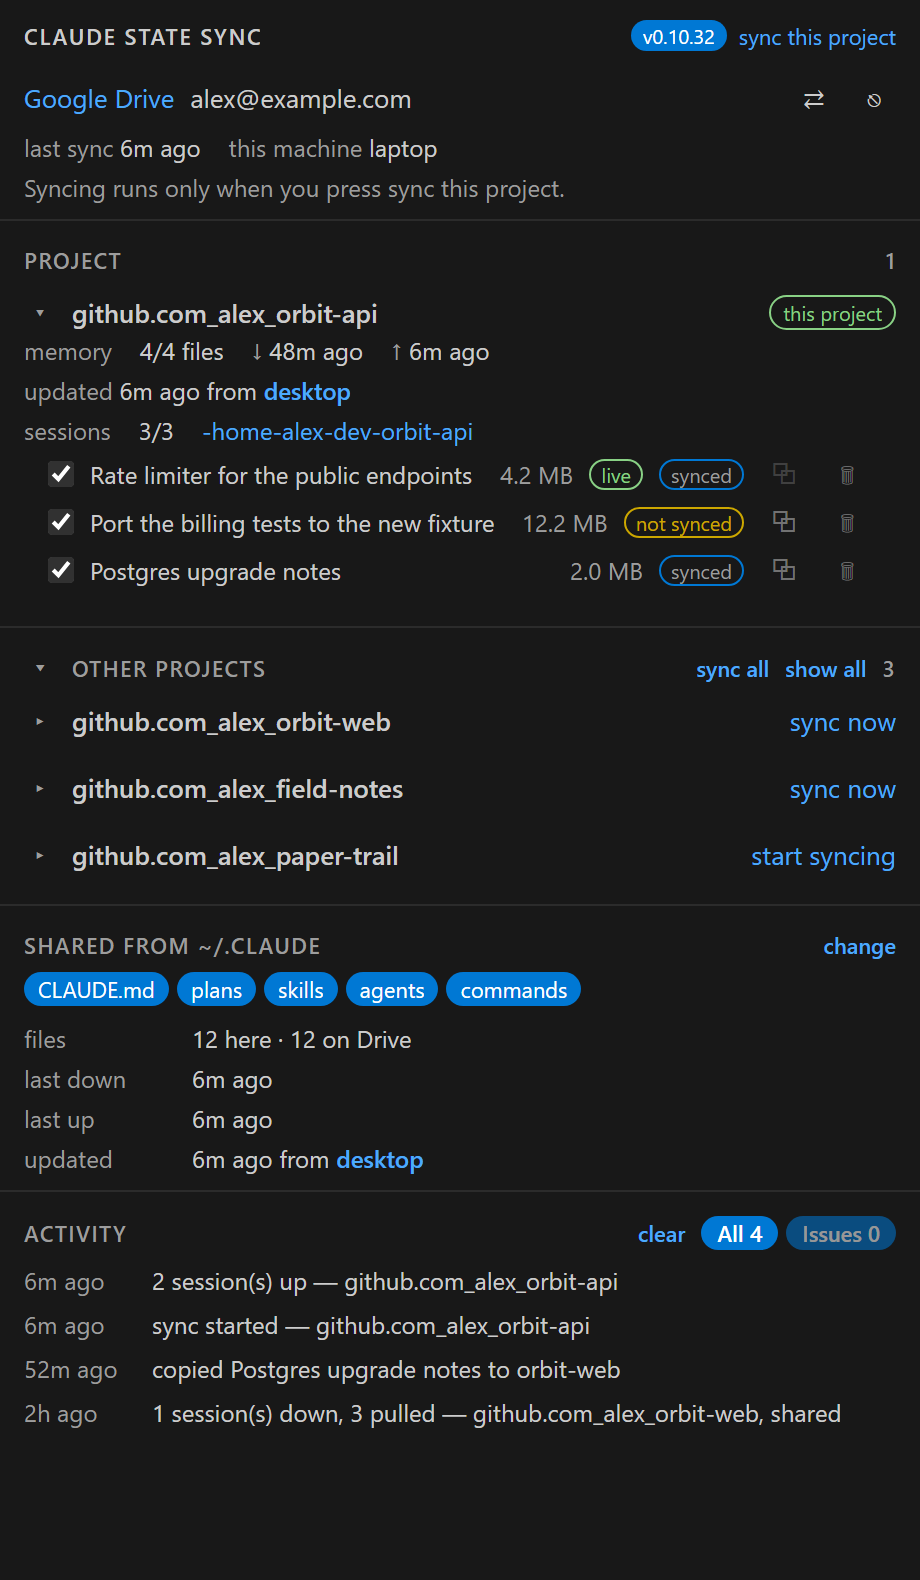
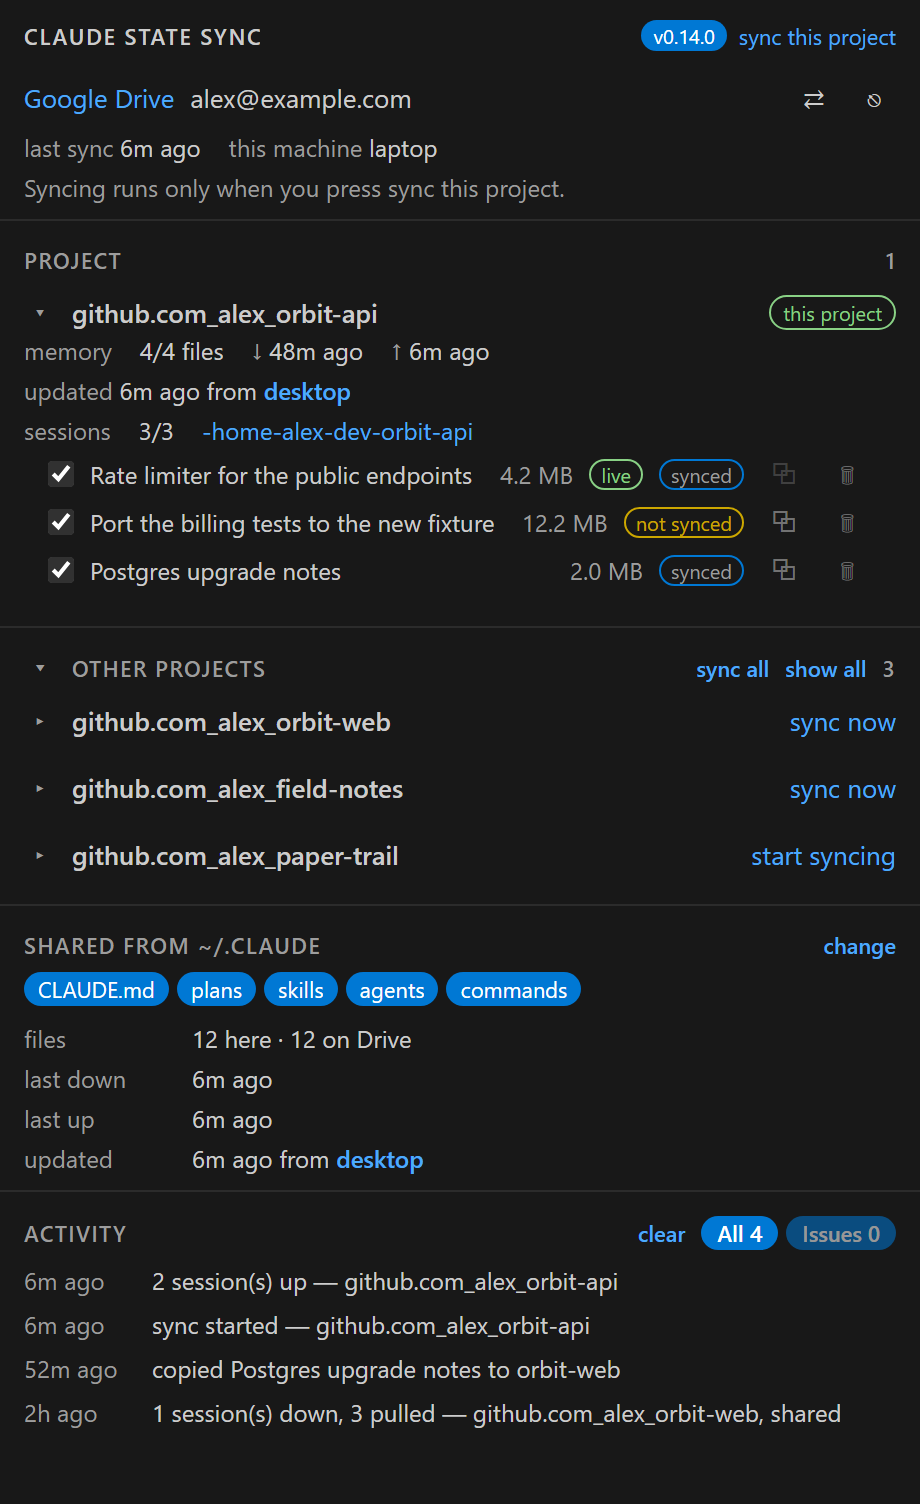
Lead with the three stores, and show the screen that picks one
Carried over from the private checkout: the README now opens on the
three ways to store state -- Google Drive, OneDrive, a git repository of
your own -- and Setup is a picture of the screen where you pick one.

diff --git a/README.md b/README.md
@@ -1,18 +1,31 @@
 # Claude State Sync — releases
 
 [![Marketplace](https://img.shields.io/badge/Marketplace-install-0098FF)](https://marketplace.visualstudio.com/items?itemName=triplepai14.claude-state-sync)
-![Version](https://img.shields.io/badge/version-0.10.32-blue)
+![Version](https://img.shields.io/badge/version-0.14.0-blue)
 ![VS Code](https://img.shields.io/badge/VS%20Code-1.85+-007ACC)
-![Storage](https://img.shields.io/badge/storage-your%20own%20Google%20Drive%20or%20OneDrive-4285F4?logo=googledrive&logoColor=white)
+![Storage](https://img.shields.io/badge/storage-your%20Drive%2C%20OneDrive%20or%20git%20repo-4285F4)
 ![Scope](https://img.shields.io/badge/OAuth%20scope-app--scoped%20files%20only-34A853)
 ![Servers](https://img.shields.io/badge/third--party%20servers-none-brightgreen)
 [![License](https://img.shields.io/badge/license-MIT-green)](LICENSE)
 
 Keep Claude Code's working state — memory, skills, plans, `CLAUDE.md` and session
-transcripts — in step across machines, through **your own** Google Drive or
-OneDrive. No third-party server, and nothing syncs unless you ask it to. It also
-copies a conversation from one project into another, rewriting the paths
-recorded inside the transcript so it belongs there.
+transcripts — in step across machines, through **storage you already own**. No
+third-party server, and nothing syncs unless you ask it to. It also copies a
+conversation from one project into another, rewriting the paths recorded inside
+the transcript so it belongs there.
+
+## Three places to keep it — pick one, press one button
+
+| | What you do | Where your files land |
+| --- | --- | --- |
+| **Google Drive** | Press **Sign in** | A `ClaudeStateSync` folder in your Drive |
+| **OneDrive** | Press **Sign in** | This app's own folder in your OneDrive |
+| **A git repository** | Paste a repo URL | A private repository of yours, any host |
+
+No API key to generate and no console to visit: the extension carries its own
+Google and Microsoft registrations, and the git store needs no account at all.
+Switch between them whenever you like — each keeps its own sign-in, so nothing
+is lost by changing your mind.
 
 Problems and requests: [open an issue](https://github.com/magsenium/Claude-State-Sync-Releases/issues).
 
@@ -40,28 +53,47 @@ Never synced: `cache/`, `backups/`, `ide/`, `shell-snapshots/`, `session-env/`,
 
 # Setup
 
-First pick where the state should live — the panel asks on first run, and
-`claudeStateSync.provider` records the choice:
+Install the extension, open the panel — the cloud icon in the activity bar — and
+pick where the state should live. That screen is the whole setup:
 
-- **Google Drive** (the default): follow the walkthrough below.
-- **OneDrive**: skip to [OneDrive instead](#onedrive-instead) — it is shorter,
-  because Microsoft needs no API enablement, no consent-screen publishing and
-  no client secret.
+![The setup screen: Sync through Google Drive, OneDrive or Git repo, and a single Sign in button](https://github.com/magsenium/Claude-State-Sync-Releases/raw/main/media/screenshot-setup.png)
 
-Either way it is a **one-time job**. Budget five minutes.
+- **Google Drive** — press **Sign in to Google Drive**. Your browser opens
+  Google's consent screen, which asks for one permission: *files this app itself
+  creates*. It cannot see anything else in your Drive.
+- **OneDrive** — press **Sign in to OneDrive**. A work or school account may need
+  an administrator to approve the app first; a personal Microsoft account never
+  does.
+- **A git repository** — paste the URL of an empty **private** repository. It uses
+  the git already on your machine, with your own credentials, so there is nothing
+  to sign into. See [A git repository instead](#a-git-repository-instead).
 
-## Why you have to do this at all
+Then repeat on your other machines: same account, or same repository. Nothing
+syncs until you press **sync this project**.
 
-Google will not let an application touch a Drive unless that application is
-registered with Google. The registration is called an **OAuth client**, and only
-a human with a Google account can create one. There is no way for an extension
-to skip it.
+Rather use an OAuth client of your own? Press **paste one** on the sign-in
+screen — [for Google](#registering-a-google-client-of-your-own-optional), [for
+Microsoft](#onedrive-instead). You do not need to.
 
-Extensions that appear to skip it have not: their developer registered a client
-and shipped it inside the extension, so every user's traffic runs through the
-developer's registration. This extension does not do that, because it would put
-your Drive access on someone else's quota and let anyone holding the extension
-file raise a Google consent screen in their name. You register your own instead.
+## Registering a Google client of your own (optional)
+
+You do not need this. Do it if you would rather not use the shipped
+registration — an employer that blocks unapproved apps, a wish to keep the
+traffic entirely on your own quota, or simply preferring to trust nothing you
+did not create.
+
+On the sign-in screen press **paste one**, next to "Rather use your own Google
+OAuth client?", and follow the steps below to make one. A pasted client takes
+over from the shipped registration on its own; `claudeStateSync.oauth.useBuiltin`
+only matters if you want the built-in one back without deleting yours.
+
+> **Switching between the two starts a separate store.** A client is an
+> application in Google's eyes, and `drive.file` shows an application only the
+> files it created itself — so the other client's uploads become invisible, the
+> panel reads empty, and the next sync writes a second `ClaudeStateSync` folder.
+> Nothing is deleted, and switching back brings the old store into view. To move
+> a store across, sync everything down first, switch, sync up again, then delete
+> the old folder in Drive by hand.
 
 You are creating **two separate things**, and it helps to keep them apart:
 
@@ -132,11 +164,15 @@ lists the same four steps with buttons that open each page, then:
 2. Press **Sign in to Google Drive**. Your browser opens Google's consent
    screen.
 3. If you see **"Google hasn't verified this app"**, choose **Advanced** → **Go
-   to <your app name>**. This is expected: the unverified developer is you.
+   to <your app name>**. The warning is about the registration being
+   unverified, not about where your files go.
 4. Approve. The browser says you can close the tab.
 
 Repeat step 5 on every other machine, with the same client and the same Google
 account. Steps 1–4 are never repeated.
+
+With the shipped registration — the default — none of this applies: sign in on
+each machine with the same Google account, and that is the whole of it.
 
 ### Only the `drive.file` scope
 
@@ -146,8 +182,12 @@ Google will not return those files to this client at all.
 
 ## OneDrive instead
 
-Pick **OneDrive** in the panel (or set `claudeStateSync.provider` to
-`onedrive`), then register once with Microsoft:
+The shipped registration covers OneDrive too, so this is optional — do it to
+keep the traffic under a registration of your own, or because your organisation
+only allows apps it registered itself. Press **paste one** on the sign-in screen
+when you have the id; a pasted registration takes over from the built-in one.
+
+Register once with Microsoft:
 
 1. Go to <https://aka.ms/AppRegistrations> → **New registration**. Any name.
    Under **Supported account types** choose the option ending in **"and
@@ -168,6 +208,51 @@ analogue of `drive.file`. Switching between them is one click in the
 panel and applies immediately — each provider keeps its own sign-in and its
 own bookkeeping, so nothing is lost either way — but the two clouds are separate stores, and
 state pushed to one is not in the other.
+
+### When OneDrive refuses the app folder
+
+Microsoft has been moving personal accounts to a newer storage backend, and on
+some of them the app folder is refused outright — `400`, or `accessDenied` with
+`serviceReadOnly`, whatever the account's storage says. Those accounts have no
+working app folder to sync into.
+
+The panel offers **use an ordinary folder** on the error, and
+`claudeStateSync.onedrive.folderMode` holds the same choice. It keeps the store
+in a plain `ClaudeStateSync` folder in your OneDrive instead — which needs
+`Files.ReadWrite`, a permission that **can see your whole drive**. That is a
+real trade, so it is never taken for you: the default stays the narrow scope,
+switching needs a new sign-in, and the two folders are separate stores. Google
+Drive and a git repository need no such thing.
+
+## A git repository instead
+
+Pick **Git repo** in the panel and paste a repository URL. That is the entire
+setup: no account to register, no OAuth client, no token of ours anywhere.
+
+1. Make an **empty private repository** on any host — GitHub, GitLab, a server
+   of your own. Private matters: transcripts are your conversations.
+2. Paste its URL (`https://…` or `git@…`) into the panel and press **Connect the
+   repository**.
+3. Do the same on every other machine.
+
+The extension clones it into its own state directory and works there: each sync
+fetches the repository, writes what changed, then commits and pushes. Access is
+**your** git — the credential helper that answers `git push`, your SSH agent,
+your host's rules. Nothing is stored by the extension to reach it, and a host
+that only lets you in over SSH is fine.
+
+Worth knowing before choosing this one:
+
+- **A repository keeps everything for ever.** Transcripts are the bulk of what
+  syncs, and git stores each version, so the repository grows with the history
+  in a way a Drive folder does not. Use a repository kept for this and nothing
+  else, and remake it if it ever gets uncomfortable — nothing here needs the
+  history.
+- Two machines syncing at the same moment: the second push is refused, dropped,
+  and retried on the next sync. Nothing is lost and nothing is force-pushed.
+- The branch is `main` unless `claudeStateSync.git.branch` says otherwise; it is
+  created on the first push if the repository is empty.
+- Every commit is authored as *Claude State Sync*, never your git identity.
 
 ---
 

diff --git a/CHANGELOG.md b/CHANGELOG.md
@@ -1,5 +1,196 @@
 # Changelog
 
+## 0.14.0
+
+- **A way through for OneDrive accounts whose app folder Microsoft refuses.**
+  Personal accounts moved to the newer storage backend answer the app-folder
+  endpoint with 400 or `serviceReadOnly` however healthy the account is, which
+  leaves those accounts unable to sync at all. The failure now carries a `use
+  an ordinary folder` button: the store moves to a plain `ClaudeStateSync`
+  folder in the drive, and sync works.
+- **It is a choice, not a default.** That mode needs `Files.ReadWrite`, which
+  can see the whole drive, so it is spelled out before it happens, needs a
+  fresh sign-in, and leaves `claudeStateSync.onedrive.folderMode` on
+  `appFolder` — the narrow permission — for everyone else. Switching back is
+  the same setting.
+- A sign-in is now remembered as belonging to the mode it was granted under,
+  so changing the setting asks for a new sign-in instead of failing somewhere
+  obscure.
+- The README leads with the three stores — Drive, OneDrive, a git repository
+  of your own — and a picture of the screen where you pick one.
+
+## 0.13.9
+
+- **The read-only OneDrive message names the cause you can act on.** An
+  account over its storage limit is put in read-only by Microsoft and stays
+  there until space is freed — that now leads the message, ahead of migration
+  and maintenance, along with the reminder that the recycle bin still counts
+  towards the limit and that the other two providers are separate stores that
+  work meanwhile.
+
+## 0.13.8
+
+- **A OneDrive that Microsoft has put in read-only mode now says so.** The
+  panel showed the raw `403 accessDenied / Database Is Read Only` with a
+  request id, which reads like a permissions problem or worse. It is neither:
+  Microsoft does this during account maintenance and migration, it refuses
+  reads as well as writes, and it lifts on its own — so that is what the
+  message says now, along with the fact that nothing was lost.
+- Every OneDrive failure — listings, metadata writes, uploads, chunk uploads —
+  goes through the same reader, so a condition like this reads the same
+  whichever call met it first.
+
+## 0.13.7
+
+- **Fixed OneDrive asking for an Application (client) ID right after a
+  successful sign-in.** The Microsoft side answered "do I have a
+  registration?" from secret storage alone, so the one built into the
+  extension — the one the sign-in had just used — did not count, and the panel
+  showed the lost-client screen over a working sign-in. Nothing was wrong with
+  the sign-in; only the question was.
+
+## 0.13.6
+
+- **No more `switch account` on a git store.** There is no account to switch
+  between — changing repository is editing the URL — and pressing it dropped
+  the clone only to clone the same repository again. The account row now shows
+  one `Disconnect this repository` there, which forgets the local clone and
+  returns to Connect with the URL still in the box. Google Drive and OneDrive
+  keep both controls unchanged.
+
+## 0.13.5
+
+- **Other Projects lists what this machine holds, before any sync.** The
+  section was built from the store’s listing alone, so a fresh install showed
+  nothing until a cycle had run — on a machine full of conversations it could
+  read as though there were none. Every project Claude Code has transcripts
+  for is now listed straight away, with its sessions, and `start syncing`
+  beside it.
+
+## 0.13.4
+
+- **Fixed `EPERM, Permission denied` when connecting a git repository on
+  Windows.** Git marks every object it writes read-only, and Node’s recursive
+  delete does not clear that — so clearing the way for a fresh clone failed on
+  the store it was trying to replace. It now clears the attribute and retries,
+  skips the delete entirely when the directory is empty (which is what a
+  half-finished clone leaves), and says which path is stuck if it still cannot
+  be moved.
+- Changing the repository URL no longer deletes the clone at all: the remote is
+  re-pointed and the tree reset, which lands on the new store’s content
+  without a delete to fail.
+
+## 0.13.3
+
+- **The sign-in button says `Sign in to Google Drive` again**, whichever
+  registration is in play. `Sign in with the built-in client` was our
+  vocabulary, not the user’s — most people signing in here have never met an
+  OAuth client. With one of your own saved it still asks before switching, and
+  a line under the button says so.
+
+## 0.13.2
+
+- **The four-point pitch is gone from the Git repo screen.** It pushed the URL
+  box off the first screenful on the one setup that is a single box; the other
+  providers keep it, where there is a walkthrough to introduce.
+
+## 0.13.1
+
+- **The repository URL is a box at the top of the git screen**, not something a
+  button has to fetch: it is the whole setup, so it sits where the cursor
+  lands. A URL already saved comes back in it, Enter submits, and one press
+  saves and connects.
+
+## 0.13.0
+
+- **Sync through a git repository.** A third choice beside Google Drive and
+  OneDrive, and the one with nothing to register: paste the URL of an empty
+  private repository and that is the setup. Each sync fetches it, writes what
+  changed, commits and pushes — using the git already on this machine, so
+  access is your credential helper or SSH key and the extension holds no token
+  of its own.
+- Two machines syncing at once: the push that loses is dropped and retried next
+  sync rather than forced, so nothing is overwritten and nothing is lost.
+- Worth knowing: a repository keeps every version for ever, and transcripts are
+  the bulk of what syncs — keep one repository for this alone, and remake it if
+  it grows uncomfortable. Nothing here needs the history.
+
+## 0.12.2
+
+- **Switching clients is one decision with two directions, not a button.** The
+  separate `use the built-in client instead` control is gone; with a client of
+  your own saved, the main button reads `Sign in with the built-in client` and
+  asks before it switches — the same question the form asks when you save a
+  client of your own over the shipped one. Whichever you started with,
+  changing it is the same change and gets the same warning.
+- That warning no longer waits for a live sign-in: a signed-out machine still
+  has a store that would go out of sight.
+- **Identical on OneDrive**, which now has both halves too.
+
+## 0.12.1
+
+- **The client you pasted is shown back to you.** The boxes come up filled
+  with it instead of blank, so the form edits what is in use rather than
+  hiding it. The secret stays in secret storage — its box reads `saved — leave
+  blank to keep it`, and leaving it blank does exactly that.
+- **Both sign-in paths are named.** The form’s button now reads `Save and sign
+  in with my client`, against `Sign in to Google Drive` above it, so it is
+  clear which registration each one uses.
+- **A way back to the shipped client**: `use the built-in client instead`
+  appears once you have one of your own, and asks before switching, since it
+  is a client swap like any other.
+
+## 0.12.0
+
+- **OneDrive now works like Google Drive: pick it and press Sign in.** The
+  build carries a Microsoft registration of its own, so the app registration
+  walkthrough is optional there too. A Microsoft desktop registration is a
+  *public* client — there is no secret involved at all, only an application id.
+- **Registering with Microsoft yourself still works** and still wins over the
+  shipped one: press `paste one` on the sign-in screen. Useful where an
+  organisation only allows apps it registered itself.
+- The sign-in note says what a work or school account may run into: an
+  administrator may have to approve the app first. Personal accounts never do.
+
+## 0.11.2
+
+- **`paste one` on the sign-in screen brings back the bring-your-own-client
+  option.** It lived on the setup walkthrough, which a build carrying its own
+  client never shows — so 0.11.0 left `Sign in` as the only thing on the page.
+  The link opens the same two boxes, with a word on what changes: a pasted
+  client takes over from the built-in one with no setting to change, and each
+  client keeps its own store.
+
+## 0.11.1
+
+- **A project whose git remote was renamed follows its folder** instead of
+  stranding the old name. Project identity comes from the remote, so renaming a
+  GitHub account renamed every project at once: the old keys sat in the panel
+  saying `no folder on this machine matches this project`, while the same
+  folders reappeared as strangers with no history. The link now moves to the
+  new key and carries everything with it — sync counters, excluded sessions,
+  parked forks and, most importantly, the watermarks that say what the cloud
+  already holds, so nothing is re-uploaded.
+
+## 0.11.0
+
+- **No Google Cloud console visit any more: install, press Sign in, done.** The
+  published build carries its own Google registration, so the four setup steps
+  that stood between a new user and their first sync are gone. Nothing else
+  changes about where data lives — the files still go to a folder in your own
+  Drive, under the same `drive.file` permission, with no server in between.
+- **Registering a client of your own is still supported** and takes precedence
+  over the shipped one: turn off `claudeStateSync.oauth.useBuiltin` and paste
+  it in. For an employer that blocks unapproved apps, or to keep the traffic on
+  your own quota.
+- **Switching between the shipped client and one of your own is spelled out
+  before it happens** — a modal when you save a different client, a warning when
+  `oauth.useBuiltin` is toggled while signed in, and a standing note on the
+  credentials form. Each client is a separate application to the cloud, so the
+  other one's uploads go invisible and a second folder appears; nothing is
+  deleted, and switching back brings the old store into view.
+- OneDrive is unchanged: Microsoft registrations stay yours to create.
+
 ## 0.10.32
 
 - **Every issue from a run reaches the Issues tab**, not just the first one:
